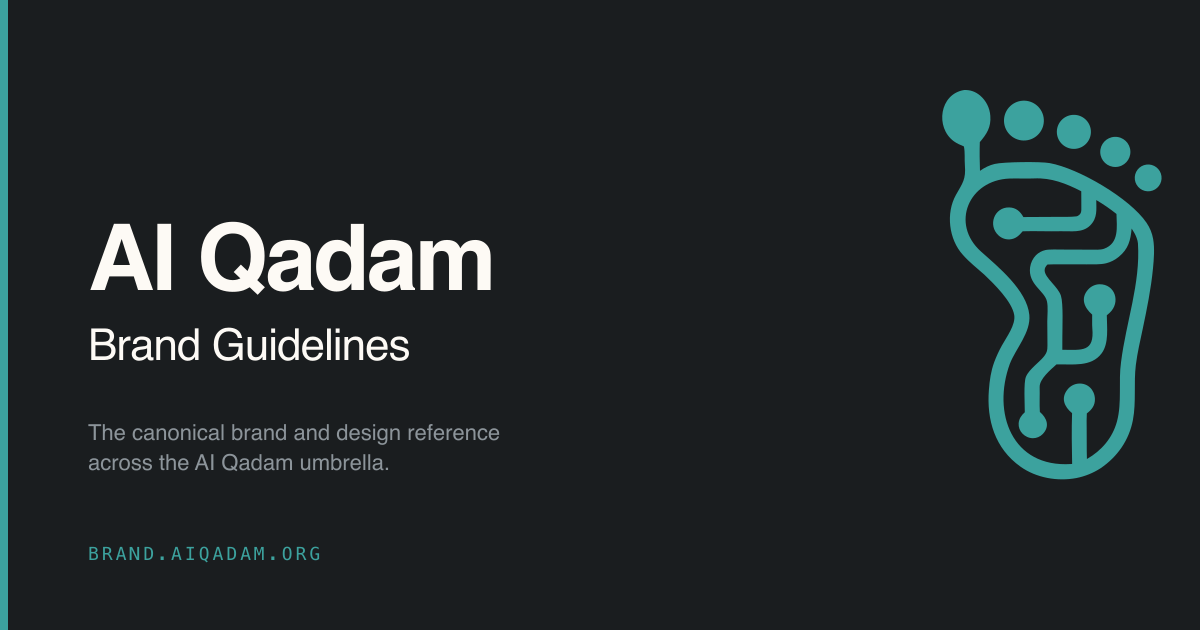
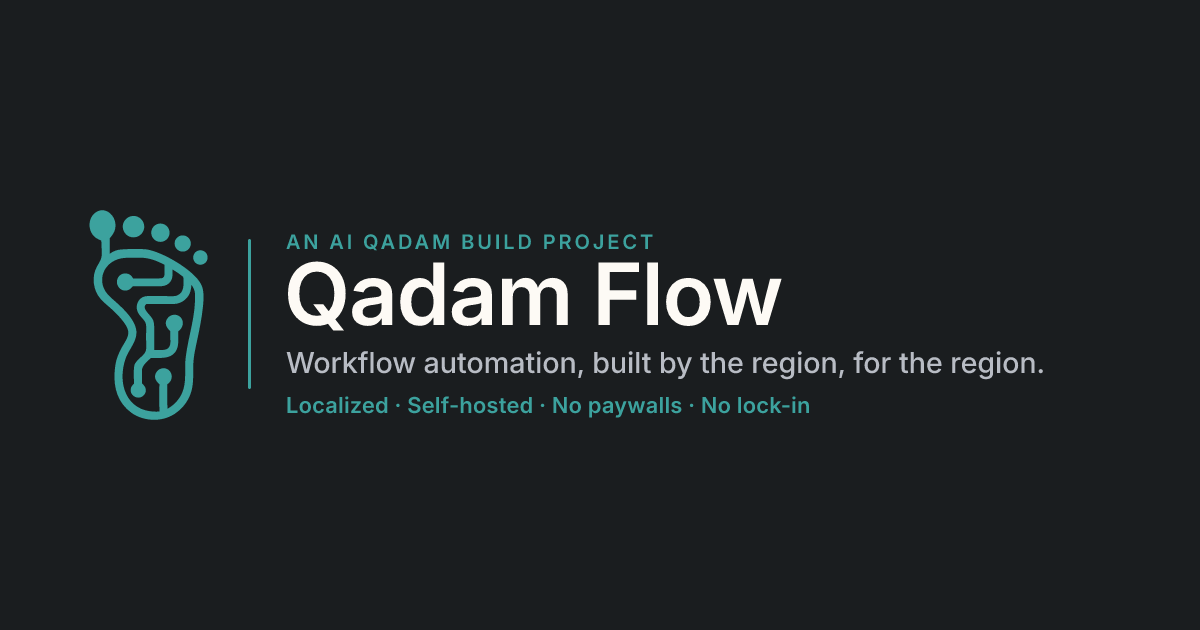
fix(web): make the social preview a Qadam Flow card, not the brand-guidelines one
Both `og-image.png` and `og-image.svg` were the AI Qadam **brand site's** own
Open Graph card — dark field, footprint mark, headline "AI Qadam", subtitle
"Brand Guidelines", and the URL BRAND.AIQADAM.ORG. `index.html` points
`og:image` at that PNG, so every Qadam Flow link shared in Telegram,
WhatsApp, Slack, LinkedIn or X previewed as an internal brand reference and
sent the reader to brand.aiqadam.org instead of the product.

Both files are now the project's own banner artwork, reused verbatim from
`.github/assets/qadam-flow-banner-dark.svg` — the same lockup the README
shows — centred on the brand dark surface at 1200x630. Nothing about the
design is invented here; the SVG embeds the banner's own paths and text
unchanged.

Also declared `og:image:width` / `og:image:height`, since some crawlers do
not render a preview on first fetch without them.

Verified by rendering the PNG and looking at it, not by file size: the mark,
the "AN AI QADAM BUILD PROJECT" eyebrow, the "Qadam Flow" wordmark, the
positioning line and the "Localized / Self-hosted / No paywalls / No lock-in"
strip are all present and legible. Worth stating because the first render
silently produced a wordless image — this container has no system fonts, so
resvg dropped every text node while still emitting a plausible-looking file.

One fidelity caveat: the banner asks for weights 700 and 800, and the only
Inter files in this repo are the 500 and 600 TTFs, so the rasteriser
[…]

Changed region(s): [[0.0617, 0.1508, 0.9867, 0.7841], [0.0, 0.0, 0.0308, 1.0], [0.0617, 0.8746, 0.2775, 0.9048]]

diff --git a/packages/web/index.html b/packages/web/index.html
@@ -15,6 +15,8 @@
   <meta property="og:title" content="Qadam Flow" />
   <meta property="og:description" content="Open-source AI-first workflow automation. An AI Qadam Build project." />
   <meta property="og:image" content="/og-image.png" />
+  <meta property="og:image:width" content="1200" />
+  <meta property="og:image:height" content="630" />
   <meta property="og:type" content="website" />
   <meta name="twitter:card" content="summary_large_image" />
   <link rel="stylesheet" href="/src/styles.css" />
